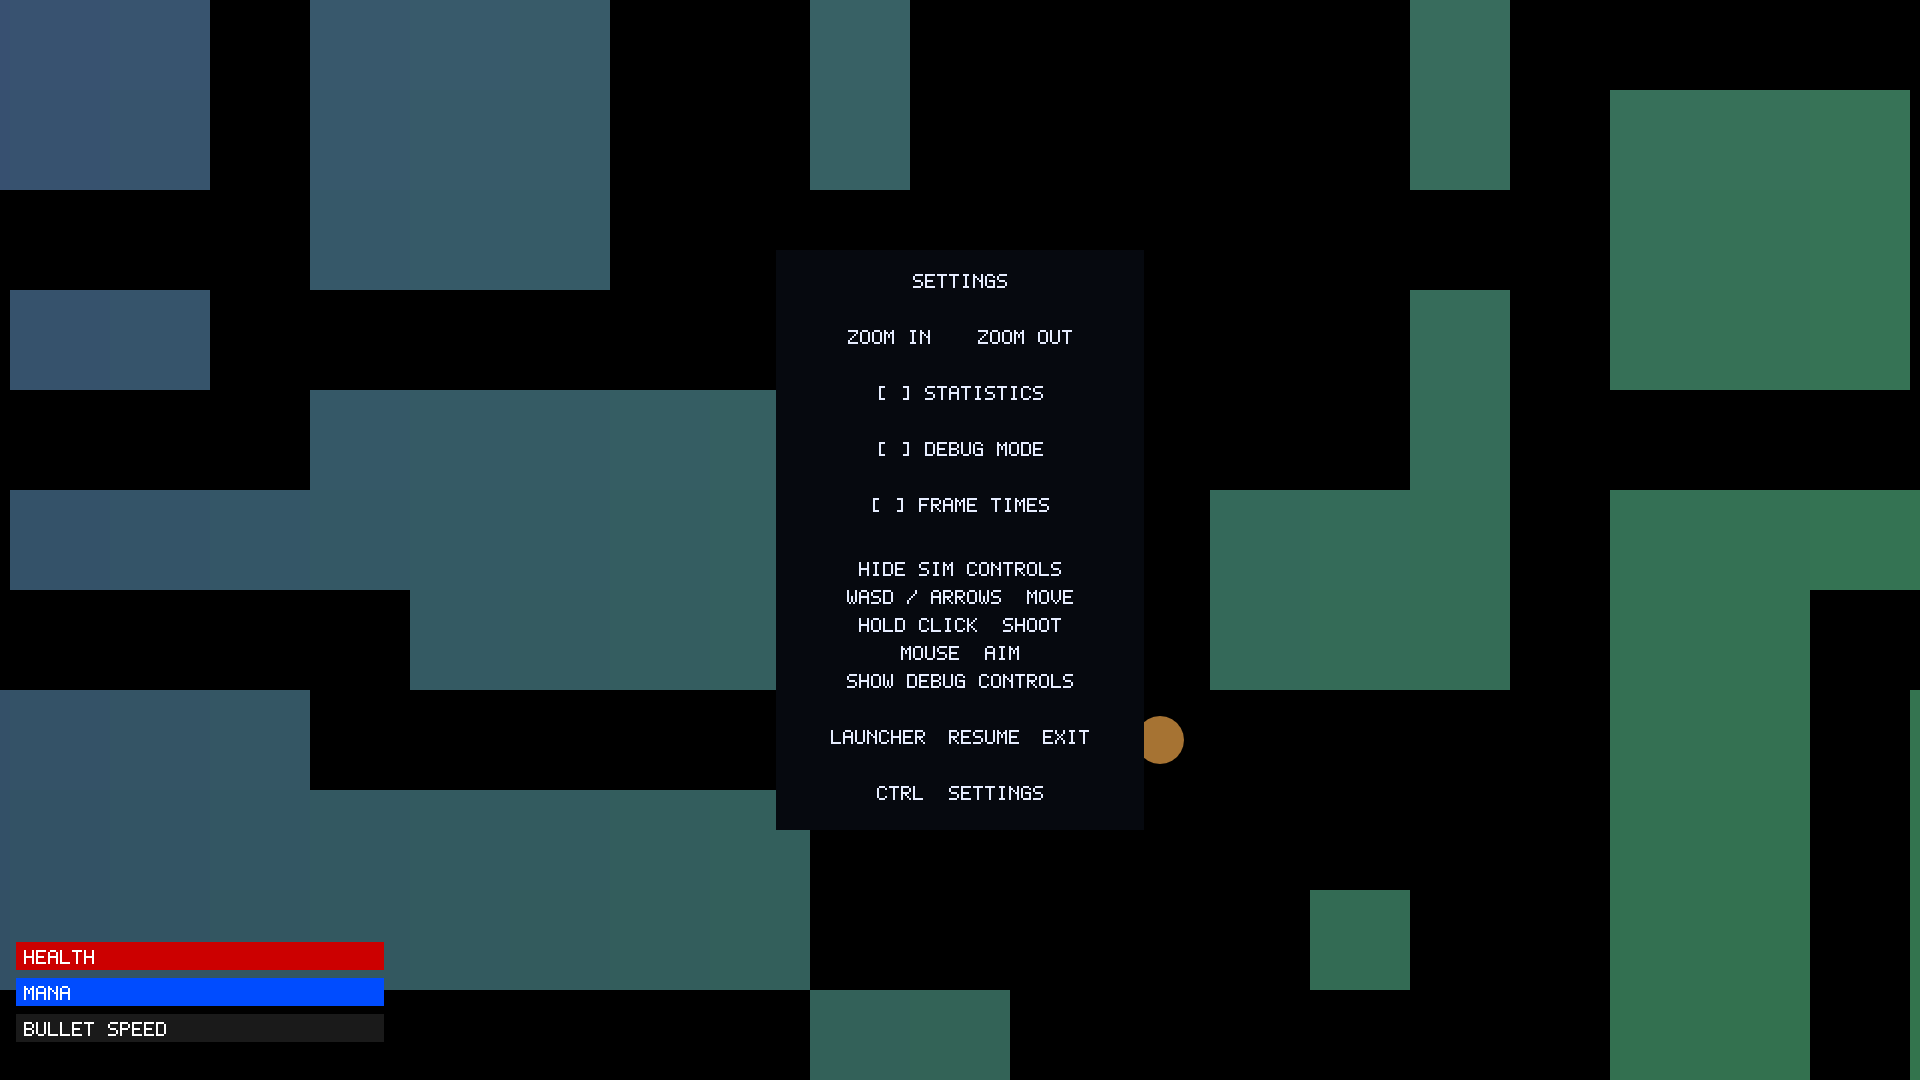
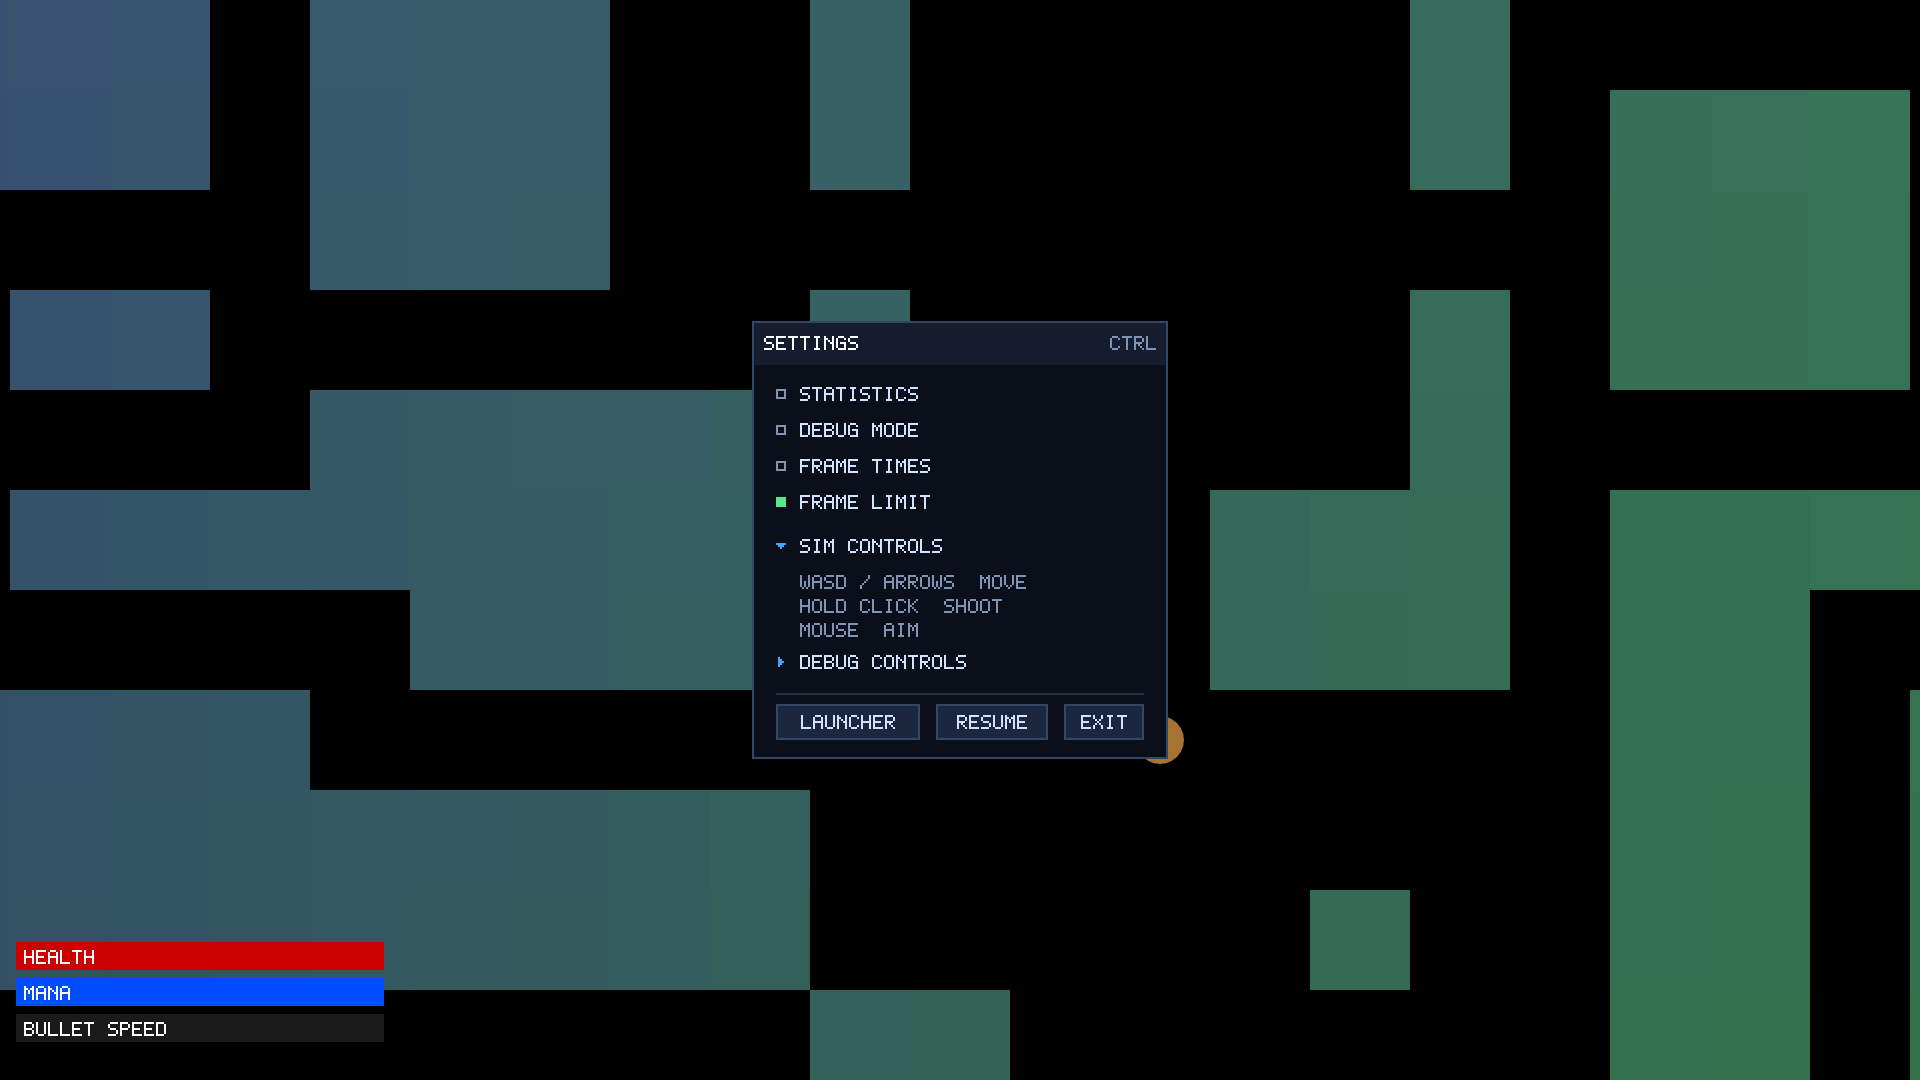
docs(media): render every capture with the new panels, wander and menus

Changed region(s): [[0.375, 0.2444, 0.625, 0.7028], [0.4062, 0.7333, 0.4375, 0.7639]]

diff --git a/docs/media/README.md b/docs/media/README.md
@@ -16,12 +16,12 @@ Real application captures used by the project's README gallery, what each one sh
 | --- | --- |
 | [launcher.png](launcher.png), [launcher-difficulty.png](launcher-difficulty.png) | Application menu with DEMO highlighted, and the Dotio difficulty page with Medium |
 | [launcher-loadscreen.png](launcher-loadscreen.png) | i4sim loadscreen: the first catalog page, SHOWCASE highlighted |
-| [demo.png](demo.png), [demo-debug.png](demo-debug.png) | Demo with Debug Mode off, and on with the debug menu open and every visual layer |
-| [demo-clip.gif](demo-clip.gif), [demo-debug-clip.gif](demo-debug-clip.gif) | Demo: the player walks to two clicked points among the agents, in both views |
-| [dotio.png](dotio.png), [dotio-debug.png](dotio-debug.png) | Dotio gameplay, and Debug Mode with every visual row of the debug menu, zoomed out |
-| [dotio-settings.png](dotio-settings.png) | Dotio's settings panel with SIM CONTROLS expanded |
+| [demo.png](demo.png), [demo-debug.png](demo-debug.png) | Demo with Debug Mode off, and on with its default layers and the debug menu open on the MOTION section: the steering values that can be tuned while the scene runs |
+| [demo-clip.gif](demo-clip.gif), [demo-debug-clip.gif](demo-debug-clip.gif) | Demo: the player walks to two clicked points among the agents, which wander by steering around their homes, in both views; the debug clip has the menu closed |
+| [dotio.png](dotio.png), [dotio-debug.png](dotio-debug.png) | Dotio gameplay, and Debug Mode with every layer on and the debug menu open on LAYERS: PATHS with its four parts in the colors of their AI states, zoomed out |
+| [dotio-settings.png](dotio-settings.png) | Dotio's settings panel (STATISTICS, DEBUG MODE, FRAME TIMES, FRAME LIMIT) with SIM CONTROLS expanded |
 | [dotio-clip.gif](dotio-clip.gif) | Dotio: the player runs a square through the corridors and shoots in bursts at the nearest enemy in sight |
-| [dotio-debug-clip.gif](dotio-debug-clip.gif) | Dotio's AI from a wide view, twelve seconds with every visual debug row on and the menu closed. The player holds its ground and shoots back; the clip starts when an enemy has spent its ammunition and runs for shelter (RECOVER, green), and shows the reload out of sight and the return (PURSUE, then ATTACK) |
+| [dotio-debug-clip.gif](dotio-debug-clip.gif) | Dotio's AI from a wide view, twelve seconds with every debug layer on and the menu closed. Enemies that wander show the three feelers they steer by. The player holds its ground and shoots back; the clip starts when an enemy has spent its ammunition and runs for shelter (RECOVER, green), and shows the reload out of sight and the return (PURSUE, then ATTACK) |
 | [i4sim.png](i4sim.png), [i4sim-debug.png](i4sim-debug.png) | i4sim `4320x2400` (29 movers, 18 producers) running with the Reciprocal profile and plain A*, with Debug Mode off, and on with the LAYERS section, every part and its swatch |
 | [i4sim-clip.gif](i4sim-clip.gif), [i4sim-debug-clip.gif](i4sim-debug-clip.gif) | The same floor and settings for twelve seconds at the session's 200 ticks per second, in both views; the debug clip has the menu closed |
 | [i4sim-showcase-junction-crossing-clip.gif](i4sim-showcase-junction-crossing-clip.gif), [i4sim-showcase-corridor-passing-clip.gif](i4sim-showcase-corridor-passing-clip.gif), [i4sim-showcase-corridor-recovery-clip.gif](i4sim-showcase-corridor-recovery-clip.gif), [i4sim-showcase-predictive-passing-clip.gif](i4sim-showcase-predictive-passing-clip.gif), [i4sim-showcase-h-crossing-clip.gif](i4sim-showcase-h-crossing-clip.gif) | The five i4sim [showcase scenes](../../labs/i4sim/blueprints/README.md#showcase-scenes), each one full cycle in Debug Mode at 200 ticks per second, so each lasts as long as its scene's cycle |
@@ -31,10 +31,10 @@ Real application captures used by the project's README gallery, what each one sh
 
 - **Rendering.** SDL's offscreen driver with software Mesa, read back with `glReadPixels`; no window decoration.
 - **Sizes.** Screenshots 1920 × 1080. Clips are rendered at 960 × 540, so the bitmap font stays sharp, and play at 15 frames per second: four seconds for Demo and the Dotio gameplay clip, twelve for the Dotio debug clip and the i4sim clips. A showcase clip lasts one cycle of its scene instead, which the tool measures before recording, so the GIF loops as the application repeats the scene.
-- **Sessions.** Created as the bundled launcher creates them, with seed 42, 48 Demo agents and Dotio on Medium. Every step advances 1/60 s, so the statistics show 60 frames per second. Demo runs 2 s before a capture and Dotio 8 s, for its enemies to arrive. The showcase scenes start at once, as after Space on the SHOWCASE page.
+- **Sessions.** Created as the bundled launcher creates them, with seed 42, 48 Demo agents and Dotio on Medium. The debug scenes open the debug menu with Shift+Ctrl, which in Dotio also switches Debug Mode on. Every step advances 1/60 s, so the statistics show 60 frames per second. Demo runs 2 s before a capture and Dotio 8 s, for its enemies to arrive. The showcase scenes start at once, as after Space on the SHOWCASE page.
 - **Dotio's player.** Scripted against the world of the running session, because the AI is not seeded: it aims at the nearest enemy on screen that a bolt can reach, with no wall or crate in between, ahead of one that moves, and holds fire without one. A screenshot is taken while it shoots at an enemy. The debug clip zooms out nine wheel notches and waits, without firing, until an enemy enters Recover (60 s at most).
 - **i4sim's settings.** The scripts choose PROFILE RECIPROCAL and PLANNER A* in the debug menu's MOTION section before Space; the traffic policies stay off. The clips show the twelve seconds of the floor's first 150 s in which most movers drive, which the tool finds in a headless run before it records; the screenshots are taken halfway through them. Why this floor and these settings is in the [design document](../design/2026-11-19-credible-media-clips.md#decisions).
-- **GIFs.** One palette per clip without dithering, and only the changed rectangle per frame; about 5.2 MB for the six application clips and 2.5 MB for the five showcase clips.
+- **GIFs.** One palette per clip without dithering, and only the changed rectangle per frame; about 5.1 MB for the six application clips and 2.5 MB for the five showcase clips.
 - **Reproducibility.** A refresh gives the same files, except Dotio's: its AI still uses unseeded randomness ([quality roadmap](../design/2026-11-18-quality-roadmap.md)). Render the Dotio debug clip a few times and keep a take in which the enemies stay around the player.
 - **What each script does** is in the [capture tool](../../tools/capture/README.md#how-it-works).
 

diff --git a/README.md b/README.md
@@ -59,8 +59,8 @@ See the [Labs overview](labs/README.md) for application sources and headless tes
 
 | Application | Normal view | Debug view |
 | --- | --- | --- |
-| **Demo** | ![Demo: the player walks among physics agents](docs/media/demo-clip.gif) | ![Demo with steering probes, paths, vectors and collision shapes](docs/media/demo-debug-clip.gif) |
-| **Dotio** | ![Dotio: the player runs through the corridors and shoots at the enemies in sight](docs/media/dotio-clip.gif) | ![Dotio zoomed out with AI states, paths and sight lines: enemies attack, run for shelter to reload, and come back](docs/media/dotio-debug-clip.gif) |
+| **Demo** | ![Demo: the player walks among physics agents](docs/media/demo-clip.gif) | ![Demo with steering probes, vectors and collision shapes: agents wander by steering around their homes](docs/media/demo-debug-clip.gif) |
+| **Dotio** | ![Dotio: the player runs through the corridors and shoots at the enemies in sight](docs/media/dotio-clip.gif) | ![Dotio zoomed out with AI states, paths and feelers: enemies wander by steering, attack, run for shelter to reload, and come back](docs/media/dotio-debug-clip.gif) |
 | **i4sim** | ![i4sim: 29 movers drive between the stations of the 4320x2400 floor under the Reciprocal profile](docs/media/i4sim-clip.gif) | ![i4sim with the debug layers: routes, forces, borders and detection ranges](docs/media/i4sim-debug-clip.gif) |
 
 The i4sim [showcase scenes](labs/i4sim/blueprints/README.md#showcase-scenes) from the loadscreen's SHOWCASE page, each one full cycle in Debug Mode at 200 ticks per second:

diff --git a/tools/capture/README.md b/tools/capture/README.md
@@ -106,7 +106,7 @@ sequenceDiagram
 - **Clicks and keys.** A settings row is found through a mirror `SettingsOverlay` with the same Lab rows (`row_y`, `half_extent`), and a debug-menu row through `DebugMenu::row_top` and `label_left`, the same public layout the graphics tests use. The panel opens on a tap of Ctrl and the debug menu on Shift+Ctrl; the stage sends both as a press that is not held, which the overlay treats as complete. Presses, clicks and the wheel apply to the first step of a clip frame; held keys and buttons to all four.
 - **Frame pacing.** The tool switches the runtime's frame limit off: its frames go to files, so nothing has to wait for a display.
 - **Frames.** `Runtime::end()` presents the frame, so the stage reads the front buffer, as the graphics tests do, flips the rows and writes the PNG.
-- **GIFs.** One palette per clip (`palettegen`), no dithering, because the applications draw flat colors, and only the changed rectangle per frame (`diff_mode=rectangle`). The six application GIFs are about 5.2 MB together, the five showcase GIFs about 2.5 MB.
+- **GIFs.** One palette per clip (`palettegen`), no dithering, because the applications draw flat colors, and only the changed rectangle per frame (`diff_mode=rectangle`). The six application GIFs are about 5.1 MB together, the five showcase GIFs about 2.5 MB.
 
 ## Invariants and contracts
 
